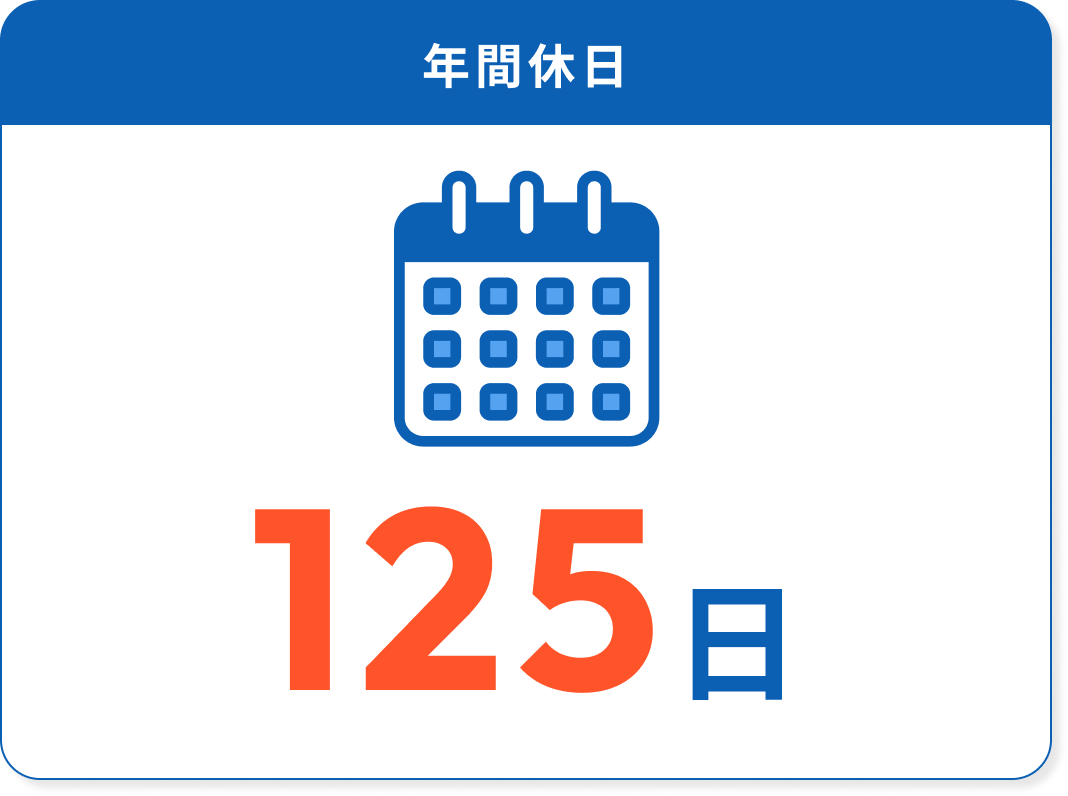
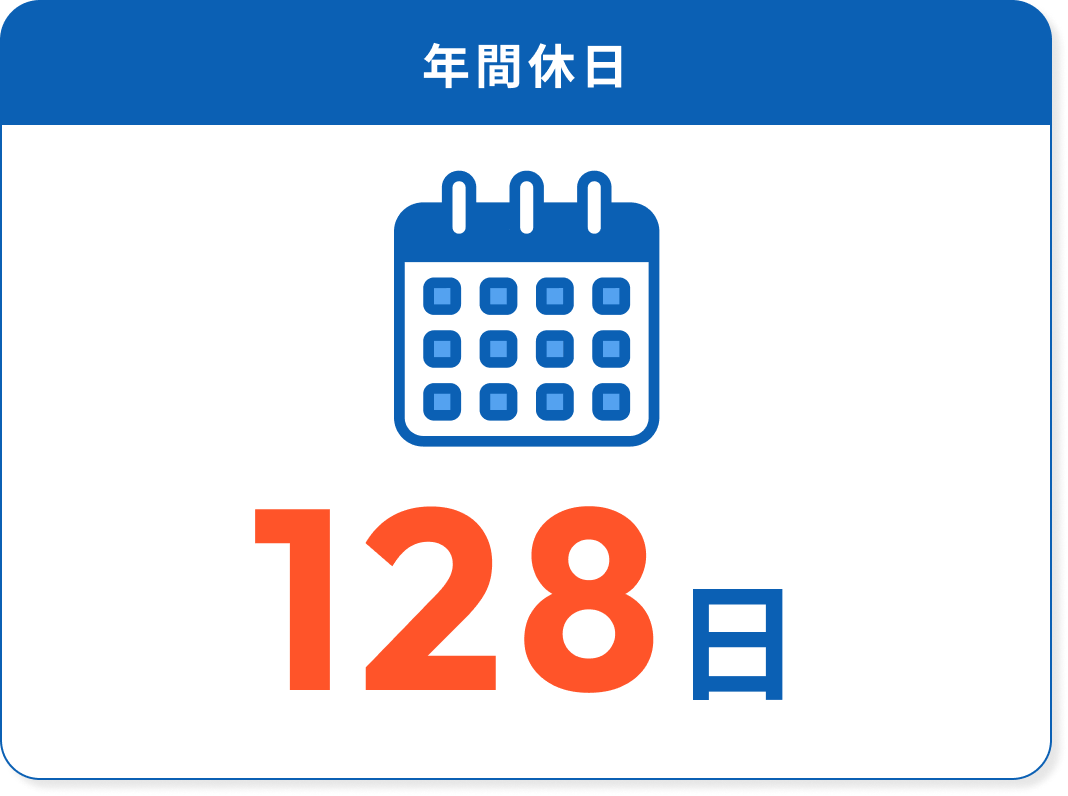
最終修正｜SEO対策

Changed region(s): [[0.4635, 0.6332, 0.618, 0.8744], [0.5871, 0.8141, 0.618, 0.8442], [0.5562, 0.8442, 0.5871, 0.8744]]

diff --git a/wp-content/themes/bss-theme/library/css/media.css b/wp-content/themes/bss-theme/library/css/media.css
@@ -51,7 +51,7 @@
     padding-top: 0;
     display: flex;
     flex-direction: column;
-    padding-left: 0px;
+    padding-left: 0;
     padding: 2vw 5vw;
     background: linear-gradient(to right, #0b60b4 0%, #54a2f0 100%);
     align-items: center;
@@ -84,6 +84,12 @@
   }
   .footer-content .footer-content-wrap .container-access {
     width: unset;
+  }
+  .custom-post-item-interview .custom-post-thumbnail {
+    height: 200px;
+  }
+  #staff-blog .custom-post-item-blog .custom-post-thumbnail {
+    height: 155px;
   }
 }
 /* 画面幅が800px以下の場合のスタイル */
@@ -463,6 +469,9 @@
     font-size: 20px;
     font-weight: bold;
   }
+  .custom-post-item-interview .custom-post-thumbnail {
+    height: 400px;
+  }
 }
 
 /* 画面幅が640px以下の場合のスタイル */
@@ -570,6 +579,9 @@
   }
   #company-history.content-history .tablepress-id-7 .column-2 {
     font-size: 12px;
+  }
+  .custom-post-item-interview .custom-post-thumbnail {
+    height: 240px;
   }
 }
 @media screen and (max-width: 380px) {

diff --git a/wp-content/themes/bss-theme/parts/home/parts-home-features.php b/wp-content/themes/bss-theme/parts/home/parts-home-features.php
@@ -17,7 +17,7 @@
             </div>
             <div class="lists-image uk-flex uk-flex-right">
                 <div class="image-wrap">
-                    <img src="<?php echo theme_image_directory(); ?>/home/feature01.png">
+                    <img src="<?php echo theme_image_directory(); ?>/home/feature01.png" alt="オフィス相談風景">
                 </div>
             </div>
         </li>
@@ -34,7 +34,7 @@
             </div>
             <div class="lists-image uk-flex">
                 <div class="image-wrap">
-                    <img src="<?php echo theme_image_directory(); ?>/home/feature02.png">
+                    <img src="<?php echo theme_image_directory(); ?>/home/feature02.png" alt="オフィスでの営業作業風景">
                 </div>
             </div>
         </li>
@@ -52,7 +52,7 @@
             </div>
             <div class="lists-image uk-flex uk-flex-right">
                 <div class="image-wrap">
-                    <img src="<?php echo theme_image_directory(); ?>/home/feature03.png">
+                    <img src="<?php echo theme_image_directory(); ?>/home/feature03.png" alt="オフィス外観">
                 </div>
             </div>
         </li>
@@ -71,7 +71,7 @@
             </div>
             <div class="lists-image uk-flex uk-flex">
                 <div class="image-wrap">
-                    <img src="<?php echo theme_image_directory(); ?>/home/feature04.png">
+                    <img src="<?php echo theme_image_directory(); ?>/home/feature04.png" alt="オフィス執務室">
                 </div>
             </div>
         </li>

diff --git a/wp-content/themes/bss-theme/parts/recruit/parts-recruit-chart.php b/wp-content/themes/bss-theme/parts/recruit/parts-recruit-chart.php
@@ -6,18 +6,18 @@
     <div class="inner content-inner">
         <div>
             <div class="uk-flex uk-flex-wrap uk-margin-small-bottom">
-                <img src="<?php echo theme_image_directory(); ?>/recruit/chart01.png">
+                <img src="<?php echo theme_image_directory(); ?>/recruit/chart01.png" alt="年齢層 平均年齢35.5歳">
             </div>
             <div class="uk-flex uk-flex-wrap column1-2 uk-margin-small-bottom">
-                <img src="<?php echo theme_image_directory(); ?>/recruit/chart02.png">
-                <img src="<?php echo theme_image_directory(); ?>/recruit/chart03.png">
+                <img src="<?php echo theme_image_directory(); ?>/recruit/chart02.png" alt="男女比 ７：３">
+                <img src="<?php echo theme_image_directory(); ?>/recruit/chart03.png" alt="中と新卒比 ８：２">
             </div>
             <div class="uk-flex uk-flex-wrap column1-2 uk-margin-small-bottom">
                 <div>
-                    <img src="<?php echo theme_image_directory(); ?>/recruit/chart04.png">
+                    <img src="<?php echo theme_image_directory(); ?>/recruit/chart04.png" class="年間休日 128日">
                 </div>
                 <div>
-                    <img src="<?php echo theme_image_directory(); ?>/recruit/chart05.png">
+                    <img src="<?php echo theme_image_directory(); ?>/recruit/chart05.png" alt="女性育児復帰率">
                 </div>
             </div>
         </div>

diff --git a/wp-content/themes/bss-theme/parts/footer/parts-footer-access.php b/wp-content/themes/bss-theme/parts/footer/parts-footer-access.php
@@ -1,7 +1,7 @@
 <div class="footer-content-wrap">
     <div class="uk-flex uk-flex-wrap footer-access-wrap uk-margin-small-bottom">
         <div class="container-logo">
-            <img src="<?php echo theme_image_directory(); ?>/common/logo.png">
+            <img src="<?php echo theme_image_directory(); ?>/common/logo.png" alt="<?php bloginfo('name');?>">
         </div>
         <div class="container-access">
             <p>
@@ -11,7 +11,7 @@
             <p><span>URL：<a href="<?php echo home_url(); ?>"><?php echo home_url(); ?></a></span></p>
         </div>
         <div class="container-pmark">
-            <img src="<?php echo theme_image_directory(); ?>/pmark1.png">
+            <img src="<?php echo theme_image_directory(); ?>/pmark1.png" alt="Pマークロゴ">
         </div>
     </div>
     <div class="uk-flex uk-flex-center">

diff --git a/wp-content/themes/bss-theme/parts/company/parts-company-organization.php b/wp-content/themes/bss-theme/parts/company/parts-company-organization.php
@@ -5,7 +5,7 @@
     </div>
 
     <div class="inner content-inner">
-        <img src="<?php echo theme_image_directory(); ?>/company/organization-chart.png" class="pc">
-        <img src="<?php echo theme_image_directory(); ?>/company/organization-chart-sp.png" class="sp">
+        <img src="<?php echo theme_image_directory(); ?>/company/organization-chart.png" class="pc" alt="BSS組織図">
+        <img src="<?php echo theme_image_directory(); ?>/company/organization-chart-sp.png" class="sp" alt="BSS組織図">
     </div>
 </div><!-- /#company-organization -->

diff --git a/wp-content/themes/bss-theme/parts/company/parts-company-policy.php b/wp-content/themes/bss-theme/parts/company/parts-company-policy.php
@@ -7,7 +7,7 @@
                     <p class="company-policy-body tc-em uk-text-bold">チャレンジ精神を持ちながら、<br>誠実に生きる。</p>
                 </div>
                 <div class="policy-image">
-                    <img src="<?php echo theme_image_directory(); ?>/company/company01.png">
+                    <img src="<?php echo theme_image_directory(); ?>/company/company01.png" alt="会社会議室での打ち合わせ風景">
                 </div>
             </div>
             <div class="philosophy">

diff --git a/wp-content/themes/bss-theme/parts/company/parts-company-message.php b/wp-content/themes/bss-theme/parts/company/parts-company-message.php
@@ -9,7 +9,7 @@ $group_field = get_field('message_container');
         </div>
         <div class="message-container uk-flex uk-flex-wrap uk-item-start">
             <div class="message-image">
-                <img src="<?php echo theme_image_directory(); ?>/company/president01.png">
+                <img src="<?php echo theme_image_directory(); ?>/company/president01.png" alt="代表メッセージ 田中誠">
             </div>
             <div class="message-body">
                 <p>

diff --git a/wp-content/themes/bss-theme/header.php b/wp-content/themes/bss-theme/header.php
@@ -55,7 +55,7 @@
 		<div id="" class="header-content">
 			<div class="content-left">
 				<a href="<?php echo home_url(); ?>" class="header-home-link">
-					<img src="<?php echo theme_image_directory(); ?>/common/logo.png" class="logo-image">
+					<h1><img src="<?php echo theme_image_directory(); ?>/common/logo.png" class="logo-image" alt="<?php echo get_bloginfo('name'); ?>"></h1>
 				</a>
 			</div>
 			<div class="content-right">

diff --git a/wp-content/themes/bss-theme/parts/recruit/parts-recruit-transition.php b/wp-content/themes/bss-theme/parts/recruit/parts-recruit-transition.php
@@ -5,7 +5,7 @@
     </div>
     <div class="inner content-inner">
         <div class="graph-inner">
-            <img src="<?php echo theme_image_directory(); ?>/recruit/graph2024.png">
+            <img src="<?php echo theme_image_directory(); ?>/recruit/graph2024.png" class="BSSの売り上げと社員推移グラフ">
         </div>
     </div>
 </div><!-- /#recruit-message -->

diff --git a/wp-content/themes/bss-theme/parts/recruit/parts-recruit-message.php b/wp-content/themes/bss-theme/parts/recruit/parts-recruit-message.php
@@ -16,7 +16,7 @@
                 </div>
             </div>
             <div class="recruit-message-image">
-                <img src="<?php echo theme_image_directory(); ?>/recruit/reason.png">
+                <img src="<?php echo theme_image_directory(); ?>/recruit/reason.png" class="会社ロゴ看板">
             </div>
         </div>
     </div>
